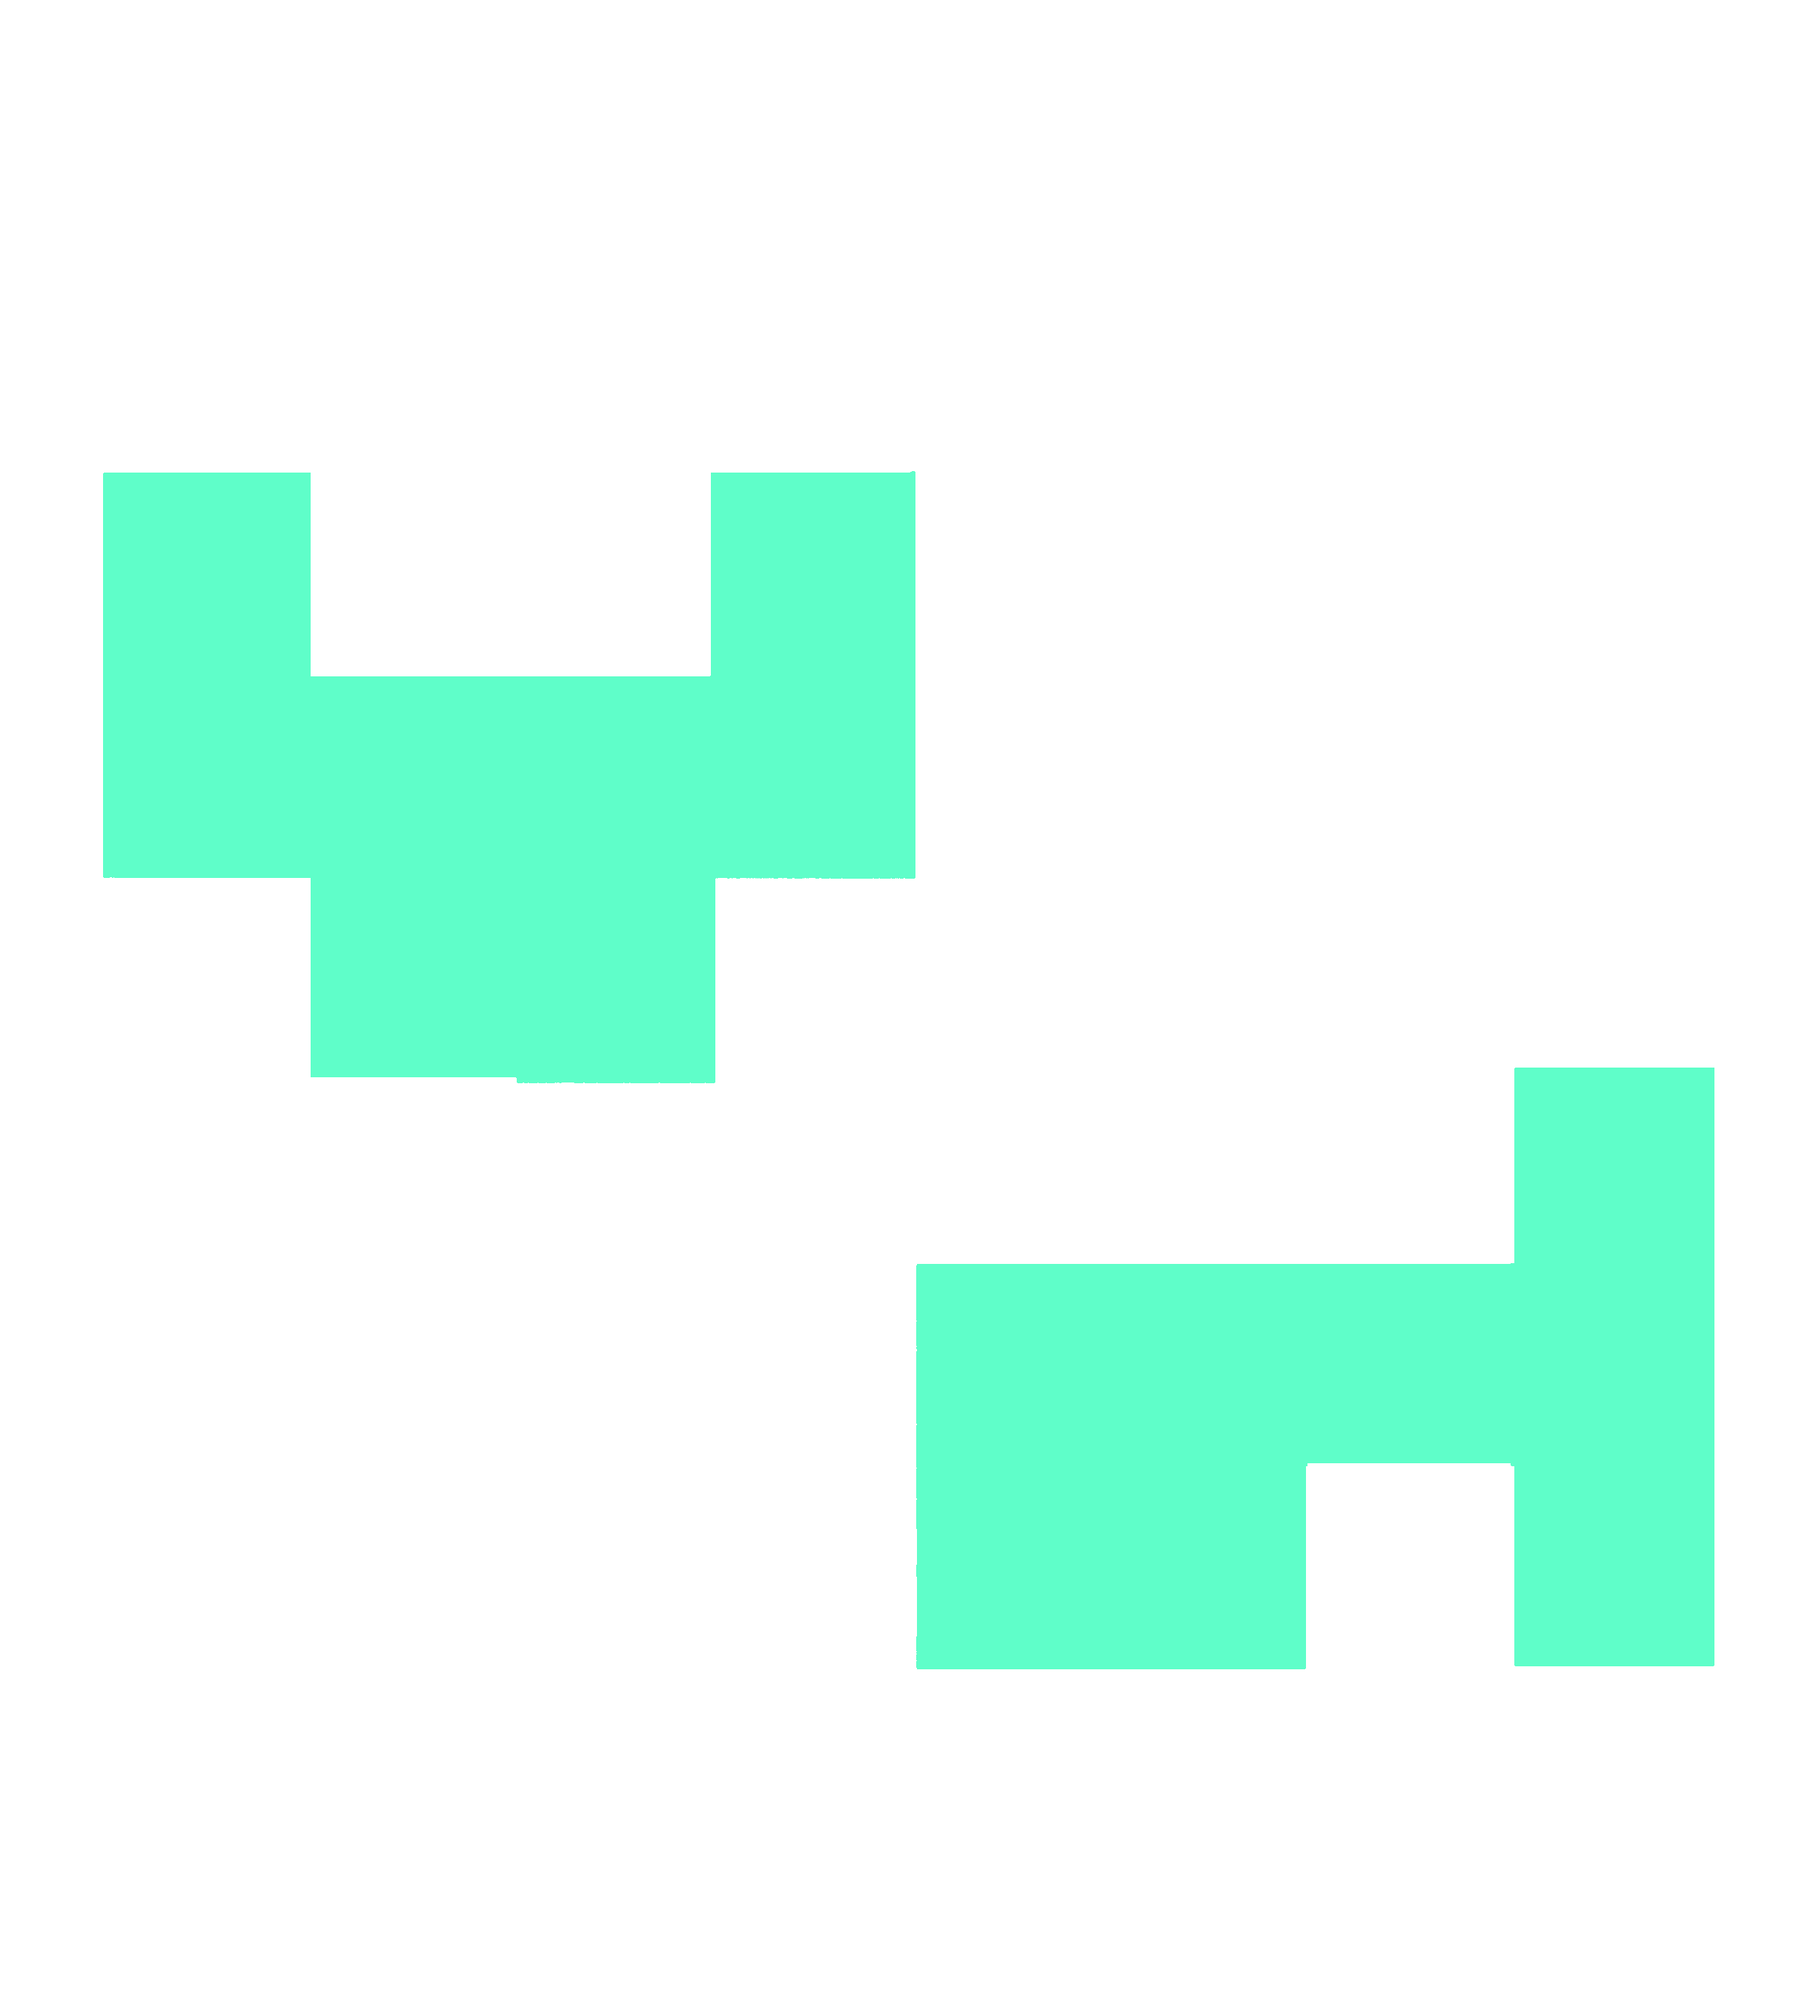
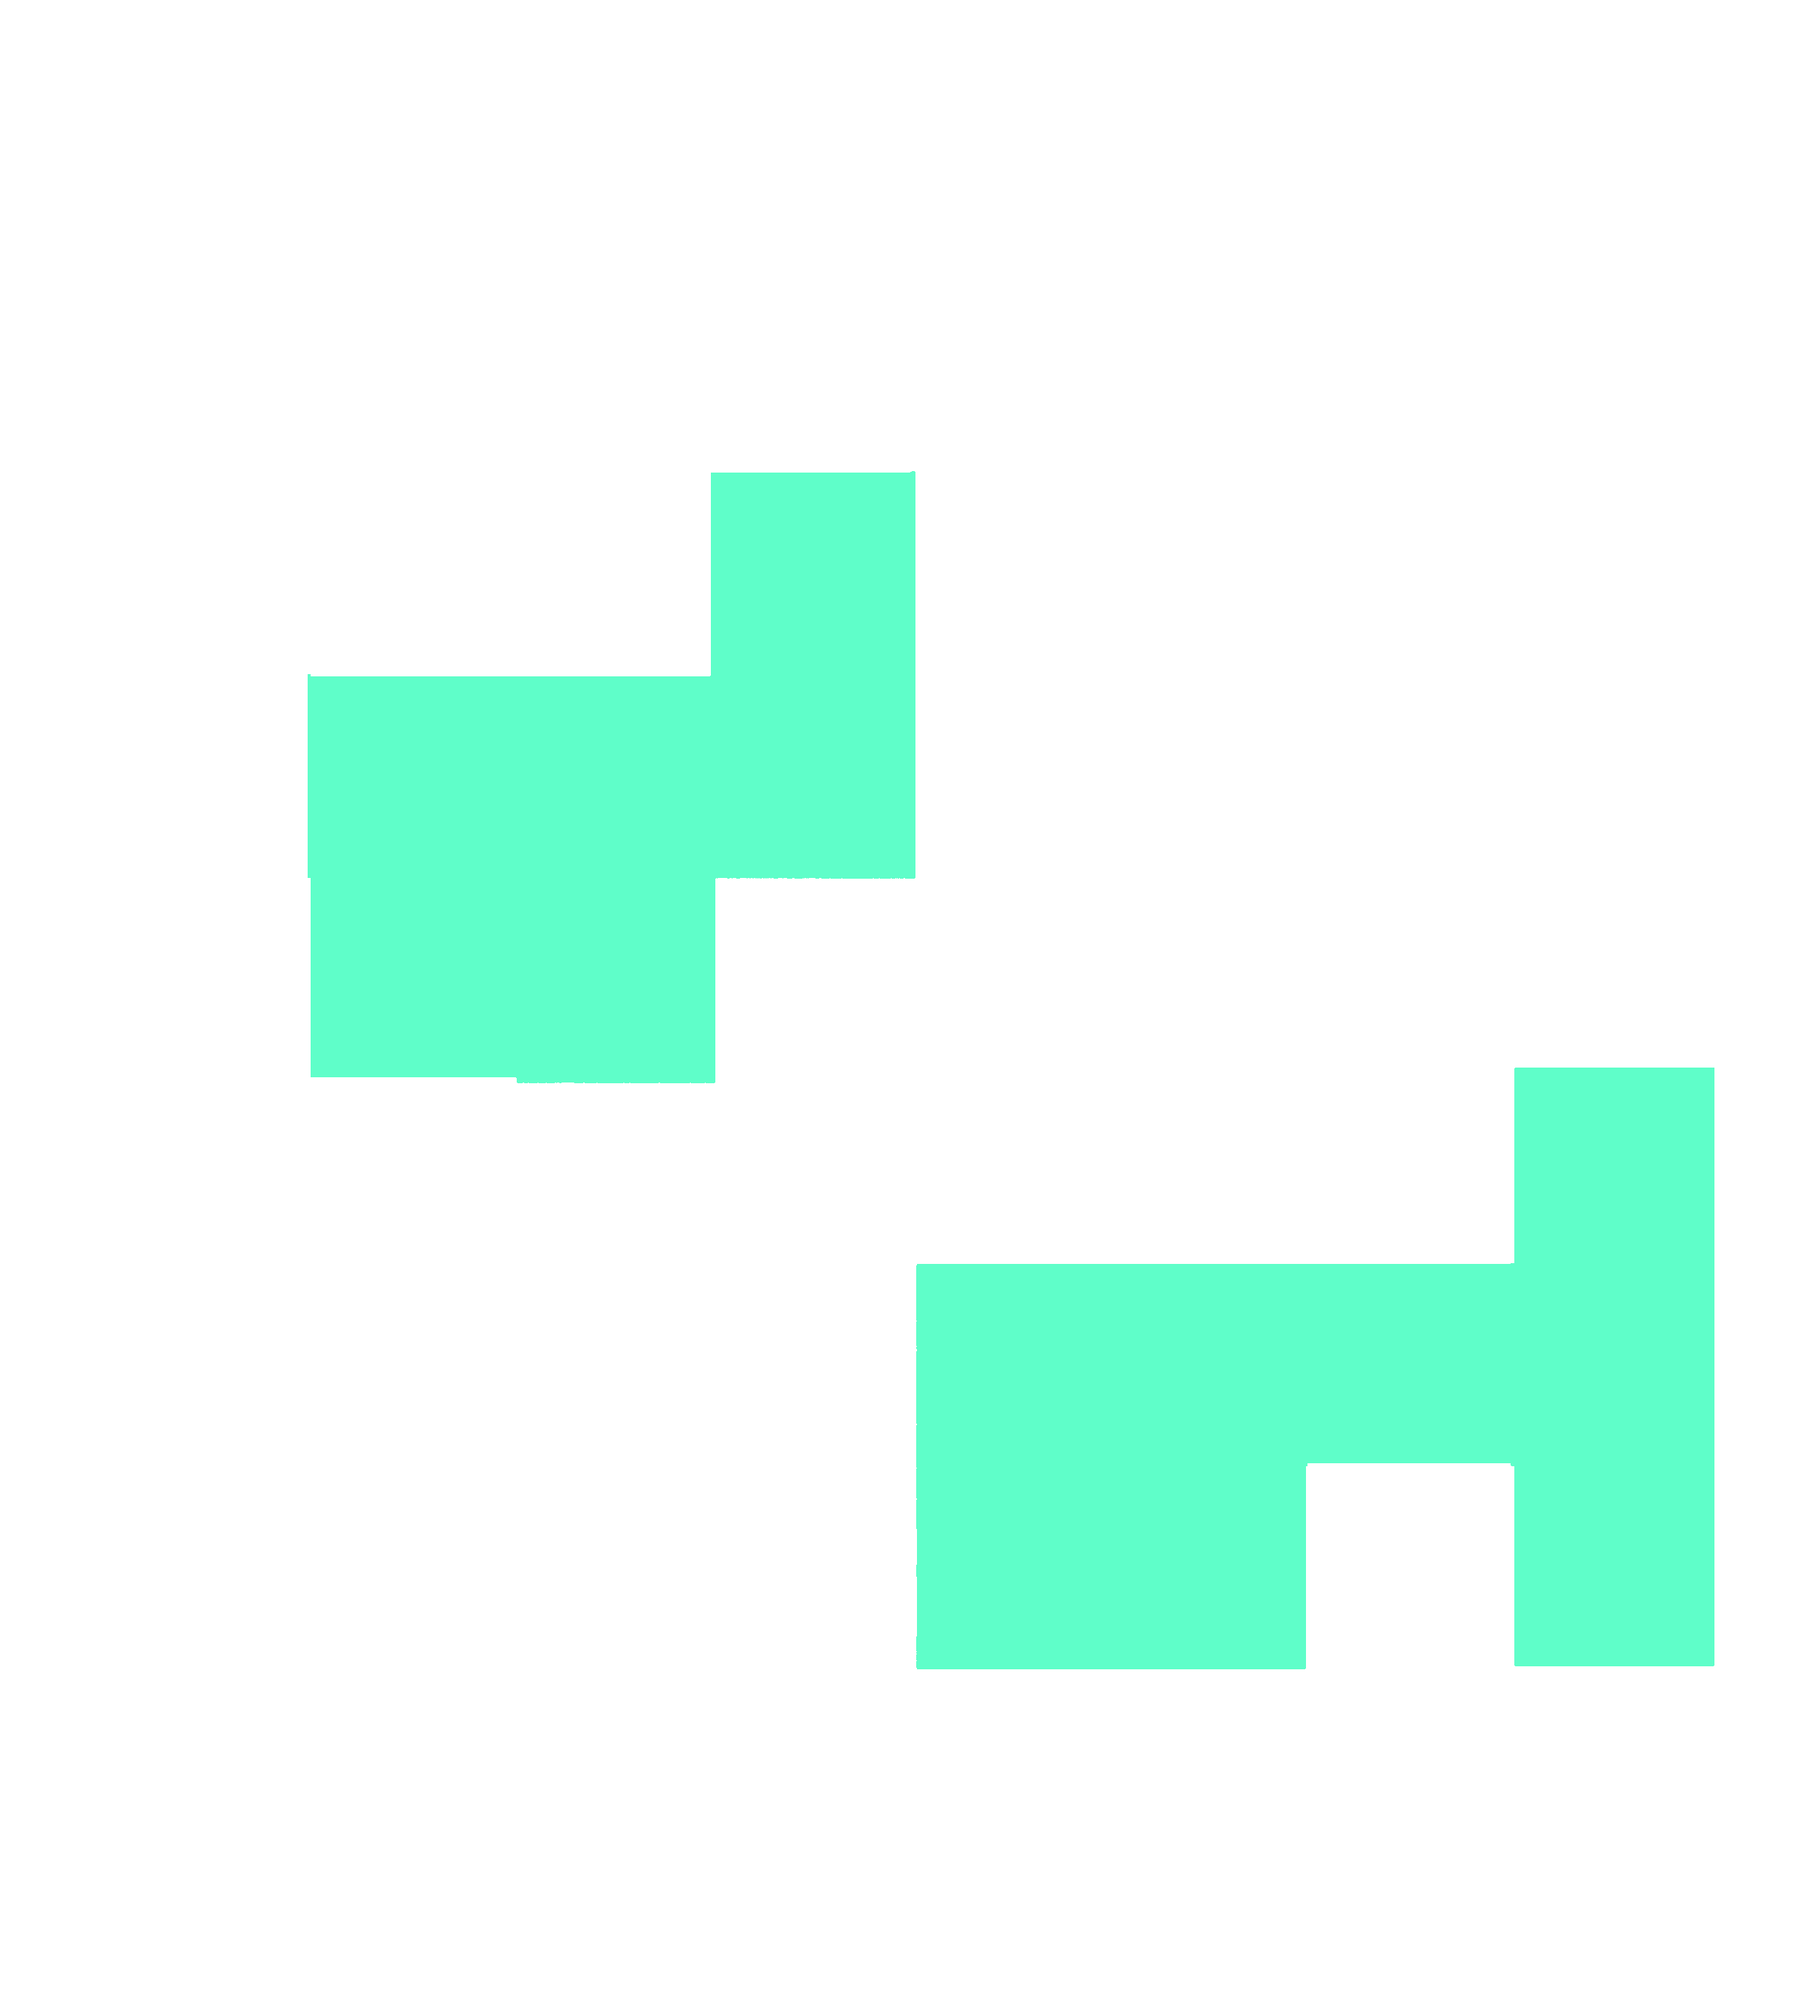
map id 10 changed to 11 (10 too easy of a pattern)

Changed region(s): [[0.0312, 0.2165, 0.1875, 0.464]]

diff --git a/app_prototype5.py b/app_prototype5.py
@@ -95,12 +95,12 @@ MASKS_ID8 = {
 }
 
 MAP_CONFIG = {
-    10: {'image': MAP_IMAGE_ID10, 'masks': MASKS_ID10},
+    11: {'image': MAP_IMAGE_ID10, 'masks': MASKS_ID10},
     9: {'image': MAP_IMAGE_ID9, 'masks': MASKS_ID9},
     2: {'image': MAP_IMAGE_ID8, 'masks': MASKS_ID8},
 }
 
-ACTIVE_MAP_ID = 10
+ACTIVE_MAP_ID = 11
 MAP_IMAGE = MAP_IMAGE_ID10
 MASKS = MASKS_ID10
 
@@ -160,7 +160,7 @@ while True:
     print(f"Detected marker IDs: {ids.flatten() if ids is not None else 'None'}")
     current_h_matrix = None
 
-    HOMOGRAPHY_MARKER_IDS = [2, 9, 10]
+    HOMOGRAPHY_MARKER_IDS = [2, 9, 11]
 
     MIN_MARKER_SIZE_PX = 20
     
@@ -197,7 +197,7 @@ while True:
         
     current_h_matrix = None
 
-    HOMOGRAPHY_MARKER_IDS = [2, 9, 10]
+    HOMOGRAPHY_MARKER_IDS = [2, 9, 11]
 
     if ids is not None and len(ids) > 0:
         for i, marker_id in enumerate(ids.flatten()):
@@ -230,7 +230,7 @@ while True:
                             [MAP_W, 492],
                             [MAP_W-490, 492]
                         ], dtype=np.float32)
-                    elif marker_id == 10:
+                    elif marker_id == 11:
                         map_marker_pts = np.array([
                             [MAP_W - 277, 0],       # top-left #or 508 #or 281 #MAP_W - 281, 0
                             [MAP_W, 0],             # top-right #MAP_W, 0
